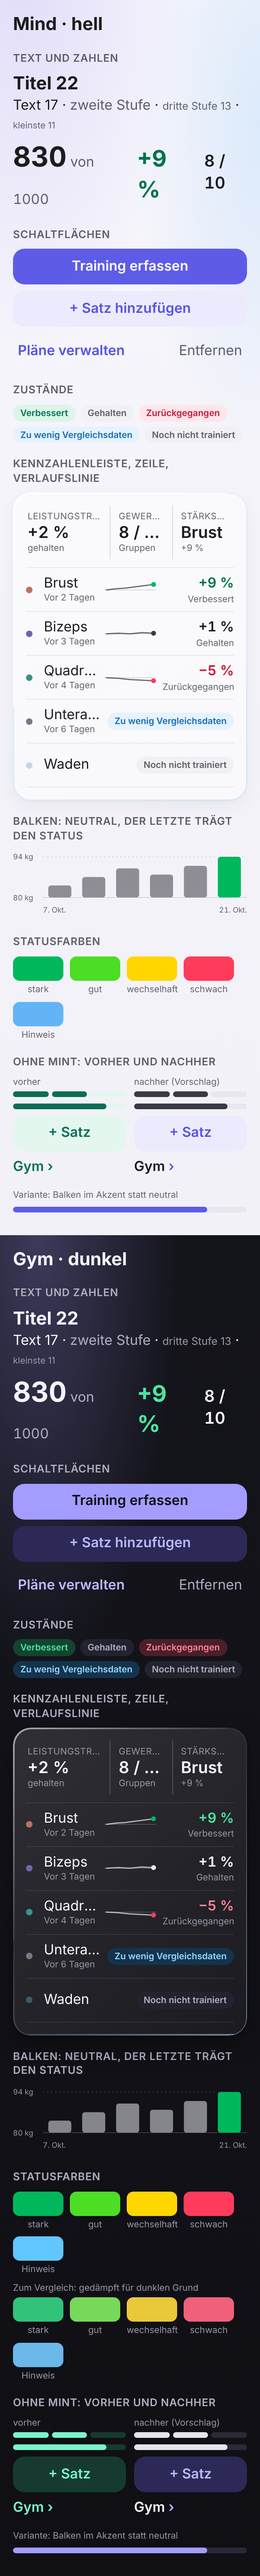
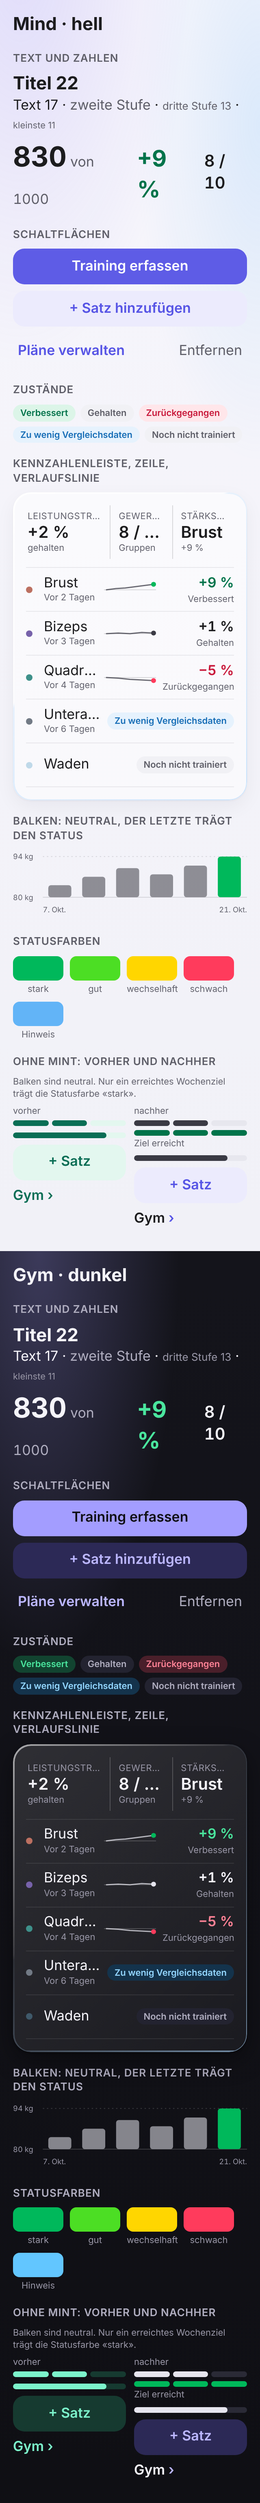
Block 0: the contract is approved at STOP 0 (D160, D161)
The owner accepted docs/wp3/vertrag.md on 2026-11-11 with all six
recommendations and the rest of its proposals, and added one rule: a weekly
target that has been met carries the status colour `strong`; every other
value bar is neutral. On light that is the status's ink, since the fill
reaches only 2.1:1 on the track.

docs/decisions.md — D160 (the contract approved; areas carry no colour of
their own; the status fills unchanged in both worlds) and D161 (white is
held and the dimmed tone is untrained and the inert zone; the body stage at
55 % without a card; the Gym tile on Heute leads to the body; the sheet at
two thirds; no Mac, so the app measures itself). A status note on D14.

docs/wp3/vertrag.md — every rule now decided, none proposed. The component
sheet shows the met weekly bar and drops the two alternatives that were
not chosen. HANDOVER.md names the approval and what the owner still owes.

No production code. npm run test exits 0 (106 files, 1761 tests).

Claude-Session: https://claude.ai/code/session_01DdLuA9TSaUni1Us2ZiTbE9

Changed region(s): [[0.0, 0.0, 1.0, 0.9971], [0.9375, 0.779, 0.9688, 0.8101]]

diff --git a/docs/wp3/mockups/bausteine.html b/docs/wp3/mockups/bausteine.html
@@ -50,9 +50,9 @@
   <div class="swatches">
     <div class="sw"><b style="background:#00b85b"></b>stark</div><div class="sw"><b style="background:#4cde24"></b>gut</div><div class="sw"><b style="background:#ffd600"></b>wechselhaft</div><div class="sw"><b style="background:#ff3b5c"></b>schwach</div><div class="sw"><b style="background:var(--info-fill)"></b>Hinweis</div>
   </div>
-  <div data-gedaempft></div>
 
   <h3>Ohne Mint: vorher und nachher</h3>
+  <p class="caption" style="margin:0 0 6px">Balken sind neutral. Nur ein erreichtes Wochenziel trägt die Statusfarbe «stark».</p>
   <div class="pair">
     <div><small>vorher</small>
       <div class="week"><b style="background:var(--alt-mint-ink)"></b><b style="background:var(--alt-mint-ink)"></b><b style="background:var(--alt-mint-tint)"></b></div>
@@ -60,15 +60,15 @@
       <div class="btn" style="margin-top:8px;background:var(--alt-mint-tint);color:var(--alt-mint-ink)">+ Satz</div>
       <div style="margin-top:8px;color:var(--alt-mint-ink);font-weight:600">Gym ›</div>
     </div>
-    <div><small>nachher (Vorschlag)</small>
+    <div><small>nachher</small>
       <div class="week"><b class="on"></b><b class="on"></b><b></b></div>
+      <div class="week" style="margin-top:5px"><b class="met"></b><b class="met"></b><b class="met"></b></div>
+      <div class="caption t-improved" style="margin-top:2px">Ziel erreicht</div>
       <div class="meter" style="margin-top:8px"><b style="width:83%"></b></div>
       <div class="btn second" style="margin-top:8px">+ Satz</div>
       <div style="margin-top:8px;font-weight:600">Gym <span style="color:var(--accent-ink)">›</span></div>
     </div>
   </div>
-  <div style="margin-top:10px"><small class="caption">Variante: Balken im Akzent statt neutral</small>
-    <div class="meter" style="margin-top:4px"><b style="width:83%;background:var(--accent)"></b></div></div>
 </template>
 <section class="sheetpage" id="mind"><h2>Mind · hell</h2></section>
 <section class="sheetpage" id="gym" data-world="gym" style="color:var(--text-primary)"><h2>Gym · dunkel</h2></section>
@@ -84,9 +84,6 @@
     const werte = [80.5, 84.6, 88.8, 85.8, 90, 94.4];
     s.querySelector('[data-balken]').innerHTML = werte.map((v, i) => { const h = (v - 76) / (94.4 - 76) * 56 + 4; return `<rect ${i === 5 ? 'fill="var(--status-strong)"' : 'class="bar"'} x="${52 + i * 50}" y="${70 - h}" width="34" height="${h}" rx="4"/>`; }).join('');
   }
-  // Nur in der dunklen Welt: die gedämpfte Fassung der Statusfarben zum Vergleich (Frage 2 im Vertrag).
-  document.querySelector('#gym [data-gedaempft]').innerHTML = `<small class="caption" style="display:block;margin:8px 0 4px">Zum Vergleich: gedämpft für dunklen Grund</small><div class="swatches">
-    <div class="sw"><b style="background:#33c27a"></b>stark</div><div class="sw"><b style="background:#77d95a"></b>gut</div><div class="sw"><b style="background:#e8c93a"></b>wechselhaft</div><div class="sw"><b style="background:#f0607a"></b>schwach</div><div class="sw"><b style="background:#6bb8ea"></b>Hinweis</div></div>`;
 </script>
 </body>
 </html>

diff --git a/docs/wp3/mockups/mockup.css b/docs/wp3/mockups/mockup.css
@@ -15,6 +15,7 @@
   --info-fill: #62b4f7; --info-ink: #166db6; --info-tint: #e6f2fd;
   --untrained: #c9c9d2;
   --alt-mint-ink: #0a6e55; --alt-mint-tint: #e3f7ef;
+  --met-fill: var(--status-strong-ink);
   --glass-fill: rgba(255, 255, 255, 0.5); --glass-solid: #ffffff;
   --glass-edge: linear-gradient(135deg, rgba(255,255,255,.95), rgba(255,255,255,.4) 39%, rgba(173,216,255,.25) 40%, rgba(173,216,255,.7));
   --ground:
@@ -39,6 +40,7 @@
   --info-fill: #62c6ff; --info-ink: #93d6ff; --info-tint: #14334c;
   --untrained: #7d7d8a;
   --alt-mint-ink: #7cf3cb; --alt-mint-tint: #163a30;
+  --met-fill: var(--status-strong);
   --glass-fill: linear-gradient(135deg, rgba(255,255,255,.12), rgba(255,255,255,.04)); --glass-solid: #1a1a22;
   --glass-edge: linear-gradient(135deg, rgba(255,255,255,.6), rgba(255,255,255,.1) 39%, rgba(173,216,255,.05) 40%, rgba(173,216,255,.6));
   --ground: radial-gradient(90% 55% at 15% 0%, rgba(163, 157, 255, 0.28), transparent 60%), linear-gradient(180deg, #14141b 0%, #0f0f14 100%);
@@ -150,7 +152,7 @@ svg .bar { fill: var(--data-ink); fill-opacity: .55; }
 .meter { height: 7px; border-radius: 4px; background: var(--data-track); overflow: hidden; }
 .meter b { display: block; height: 100%; border-radius: 4px; background: var(--data-ink); }
 .week { display: grid; grid-auto-flow: column; grid-auto-columns: 1fr; gap: 4px; }
-.week b { height: 7px; border-radius: 4px; background: var(--data-track); } .week b.on { background: var(--data-ink); }
+.week b { height: 7px; border-radius: 4px; background: var(--data-track); } .week b.on { background: var(--data-ink); } .week b.met { background: var(--met-fill); }
 
 /* iPhone SE: keine Aussparung oben, kein Balken unten. */
 @media (max-width: 340px) { :root { --safe-top: 20px; --safe-bottom: 0px; } .row { grid-template-columns: 14px minmax(0, 1fr) 64px 88px; } .row .name { white-space: normal; } }

diff --git a/docs/wp3/vertrag.md b/docs/wp3/vertrag.md
@@ -1,13 +1,10 @@
 # Momentum – Vertrag über Aussehen, Zustände und Wörter
 
-Stand: Entwurf zur Abnahme am STOP 0 (11.11.2026).
+Stand: freigegeben am 11.11.2026 (STOP 0).
 
-Dieser Vertrag legt fest, wie Momentum aussieht und spricht. Die folgenden Blöcke bauen danach, und Tests setzen ihn durch. Jede Regel trägt eine Marke:
+Dieser Vertrag legt fest, wie Momentum aussieht und spricht. Die folgenden Blöcke bauen danach, und Tests setzen ihn durch.
 
-- **festgelegt** heisst: Dario hat entschieden; die Nummer verweist auf `docs/decisions.md`.
-- **Vorschlag** heisst: Die Regel wird am STOP 0 bestätigt oder geändert.
-
-Eine Regel ohne Marke ist ein Vorschlag.
+Alle Regeln sind **festgelegt**: Dario hat sie entschieden oder am STOP 0 angenommen. Die Nummern verweisen auf `docs/decisions.md`; wo keine steht, gilt D160.
 
 Belege sind die drei Mockups unter `docs/wp3/mockups/` (Screenshots in `bilder/`, je 393 und 320 px breit).
 
@@ -27,7 +24,9 @@ Farbe hat genau drei Aufgaben (festgelegt, D154):
 2. **Die Statusskala heisst Datenlage.** Grün und Rot bewerten eine Veränderung, Blau weist auf fehlende Vergleichsdaten hin.
 3. **Alles andere ist neutral.** Text, Flächen, Linien, Balken.
 
-Daraus folgt für Balken und Linien, die einen Wert zeigen (Rating, Wochenziel, Verlauf): Sie sind neutral und benutzen zwei neue Tokens, `--data-ink` für die Füllung und `--data-track` für die Spur (Vorschlag). Das Bausteinblatt zeigt daneben die Alternative, Balken im Akzent zu füllen.
+Daraus folgt für Balken und Linien, die einen Wert zeigen (Rating, Wochenziel, Verlauf): Sie sind neutral und benutzen zwei neue Tokens, `--data-ink` für die Füllung und `--data-track` für die Spur (festgelegt, D160).
+
+Eine Ausnahme hat Dario am STOP 0 ergänzt: Hat ein Wochenziel sein Ziel erreicht, trägt sein Balken die Statusfarbe «stark»; sonst ist er neutral (festgelegt, D160). In Gym ist das die Füllfarbe `--status-strong` (5,4:1 gegen die Spur). Auf Hell ist es ihre dunklere Fassung `--status-strong-ink` (4,8:1), weil die Füllfarbe gegen die helle Spur nur 2,1:1 erreicht und ein Balken 3:1 braucht. Daneben steht wie heute «Ziel erreicht» als Wort.
 
 ### 2.2 Die beiden Welten
 
@@ -46,7 +45,7 @@ Mind ist `:root`, Gym ist `[data-world="gym"]`. Die Werte sind die von Variante 
 | `--separator-strong` | `rgba(60, 60, 67, 0.18)` | `rgba(255, 255, 255, 0.2)` |  |
 | `--text-primary` | `#1c1c1e` | `#f5f4fa` |  |
 | `--text-secondary` | `#5e5e68` | `#b0aec0` |  |
-| `--text-tertiary` | `#64646f` | `#9896a6` | Vorschlag, §3 |
+| `--text-tertiary` | `#64646f` | `#9896a6` | D149, D160 |
 | `--text-on-accent` | `#ffffff` | `#0f0f14` |  |
 | `--accent` | `#5e5ce6` | `#a39dff` |  |
 | `--accent-pressed` | `#4a48cf` | `#9089ff` |  |
@@ -59,7 +58,7 @@ Mind ist `:root`, Gym ist `[data-world="gym"]`. Die Werte sind die von Variante 
 | `--status-mixed` | `#ffd600` | wie hell |  |
 | `--status-good` | `#4cde24` | wie hell |  |
 | `--status-strong` | `#00b85b` | wie hell |  |
-| `--status-empty` | `#e6e6ec` | `#2e2e3a` | Vorschlag: Graphit statt Marineblau |
+| `--status-empty` | `#e6e6ec` | `#2e2e3a` | D160: Graphit statt Marineblau |
 | `--status-weak-ink` | `#c8183a` | `#ff8296` |  |
 | `--status-weak-on` | `var(--text-primary)` | `#1a0a10` |  |
 | `--status-weak-tint` | `#ffe6ea` | `#4a1f2a` |  |
@@ -74,7 +73,7 @@ Mind ist `:root`, Gym ist `[data-world="gym"]`. Die Werte sind die von Variante 
 | `--status-strong-tint` | `#dcf5e8` | `#124430` |  |
 | `--status-empty-ink` | `var(--text-secondary)` | wie hell |  |
 | `--status-empty-tint` | `var(--surface-secondary)` | wie hell |  |
-| `--status-track` | `#f1f1f5` | `#2a2a36` | Vorschlag: Graphit statt Marineblau |
+| `--status-track` | `#f1f1f5` | `#2a2a36` | D160: Graphit statt Marineblau |
 | `--glass-fill-strong` | `rgba(255, 255, 255, 0.78)` | `rgba(26, 26, 34, 0.86)` |  |
 | `--glass-solid` | `#ffffff` | `#1a1a22` |  |
 | `--glass-border` | `rgba(255, 255, 255, 0.95)` | `rgba(255, 255, 255, 0.14)` |  |
@@ -85,26 +84,26 @@ Mind ist `:root`, Gym ist `[data-world="gym"]`. Die Werte sind die von Variante 
 | `--toast-surface` | `#1c1c1e` | `#f3f4f8` |  |
 | `--toast-text` | `#ffffff` | `#0b0e17` |  |
 | `--toast-action` | `#b4b3ff` | `#4f47c8` |  |
-| `--data-ink` (neu) | `#3a3a44` | `#e6e5ee` | Vorschlag, §2.1 |
-| `--data-track` (neu) | `#e7e7ee` | `#2a2a36` | Vorschlag, §2.1 |
+| `--data-ink` (neu) | `#3a3a44` | `#e6e5ee` | D160, §2.1 |
+| `--data-track` (neu) | `#e7e7ee` | `#2a2a36` | D160, §2.1 |
 
 Nicht in der Tabelle, aber unverändert aus Variante B: die Schatten, der Verlauf der Glasfüllung in Gym (Weiss 12 % nach 4 %) und die Verlaufskante der Karte (1,5 px).
 
-**Der Grund** (Vorschlag). Variante B malt in Gym drei Farbschleier: Violett oben links, Cyan rechts, Mint unten. Künftig bleibt nur der violette; Mint fällt mit D154 weg, und Cyan wäre sonst eine dritte Farbe ohne Aufgabe. In Mind bleiben der violette und der blaue Schleier, der mintfarbene und der pfirsichfarbene fallen weg.
+**Der Grund** (festgelegt, D160). Variante B malt in Gym drei Farbschleier: Violett oben links, Cyan rechts, Mint unten. Künftig bleibt nur der violette; Mint fällt mit D154 weg, und Cyan wäre sonst eine dritte Farbe ohne Aufgabe. In Mind bleiben der violette und der blaue Schleier, der mintfarbene und der pfirsichfarbene fallen weg.
 
-**Reste aus Variante A.** Von den 85 Tokens des Gym-Blocks überschreibt B nur 34. Zwei der übrigen sind sichtbar marineblau statt graphit: `--status-empty` und `--status-track`. Die Tabelle schlägt Graphitwerte vor.
+**Reste aus Variante A.** Von den 85 Tokens des Gym-Blocks überschreibt B nur 34. Zwei der übrigen sind sichtbar marineblau statt graphit: `--status-empty` und `--status-track`. Die Tabelle setzt Graphitwerte.
 
 ### 2.3 Statusskala
 
-Die vier Füllfarben bleiben in beiden Welten gleich, wie D123 und `CLAUDE.md` es festhalten (Vorschlag: nicht ändern). Der Review hielt sie auf Graphit für zu grell. Gemessen stimmt das für Flächen, nicht für das, was in Gym tatsächlich damit gefüllt wird: Punkte, Endpunkte und der beleuchtete Körper. Als kleine Marke auf der Gym-Karte messen Grün 6,6:1 und Rot 5,0:1. Text und Chips benutzen schon heute eigene Werte je Welt (`-ink`, `-tint`). Das Bausteinblatt zeigt eine gedämpfte Fassung zum Vergleich. Wer sie will, ändert D123, die Regel «the same four fills in both worlds» in `CLAUDE.md`, eine Prüfung in `contrast.test.ts` und `statusPalette.ts`.
+Die vier Füllfarben bleiben in beiden Welten gleich, wie D123 und `CLAUDE.md` es festhalten (festgelegt, D160). Der Review hielt sie auf Graphit für zu grell. Gemessen stimmt das für Flächen, nicht für das, was in Gym tatsächlich damit gefüllt wird: Punkte, Endpunkte und der beleuchtete Körper. Als kleine Marke auf der Gym-Karte messen Grün 6,6:1 und Rot 5,0:1. Text und Chips benutzen schon heute eigene Werte je Welt (`-ink`, `-tint`). Eine gedämpfte Fassung stand am STOP 0 zur Wahl und wurde nicht gewählt.
 
 Die Hinweisfarbe ist die Familie `--sky-*`. Sie behält ihren Namen.
 
 ### 2.4 Der Muskelpunkt
 
-Die zehn Muskelfarben erscheinen nur noch als Punkt von 8 px vor dem Namen in der Zeile und im Kopf des Sheets (festgelegt, D154). Sie färben keine Linie, keinen Ring und keine Fläche. Der Punkt ist um 35 % zu seinem eigenen Grau gezogen (Vorschlag; heute 13 %), weil Terrakotta neben einer grünen Zahl und Petrol neben einer roten sonst wie ein Status lesen. Bei einer Gruppe ohne Training hat er 40 % Deckkraft.
+Die zehn Muskelfarben erscheinen nur noch als Punkt von 8 px vor dem Namen in der Zeile und im Kopf des Sheets (festgelegt, D154). Sie färben keine Linie, keinen Ring und keine Fläche. Der Punkt ist um 35 % zu seinem eigenen Grau gezogen (festgelegt, D160; heute 13 %), weil Terrakotta neben einer grünen Zahl und Petrol neben einer roten sonst wie ein Status lesen. Bei einer Gruppe ohne Training hat er 40 % Deckkraft.
 
-Die zehn Werte ziehen aus `src/features/body/tokens.ts` nach `tokens.css` um (`--muscle-*`) und werden von dort gelesen, so wie die Statusfarben (Vorschlag).
+Die zehn Werte ziehen aus `src/features/body/tokens.ts` nach `tokens.css` um (`--muscle-*`) und werden von dort gelesen, so wie die Statusfarben (festgelegt, D160).
 
 ### 2.5 Was Mint ersetzt
 
@@ -113,7 +112,7 @@ Mint verlässt Gym (festgelegt, D154). Im Code steht Mint an 41 Stellen in 17 Da
 | Stelle | Heute | Künftig |
 |---|---|---|
 | Rating-Balken `.metric-bar--gym` (`metrics.css:207`) | Mint | `--data-ink` auf `--data-track` |
-| Wochenbalken auf Heute `.week__segment` (`today.css:258`, `:264`) | Mint | `--data-ink` auf `--data-track` |
+| Wochenbalken auf Heute `.week__segment` (`today.css:258`, `:264`) | Mint | `--data-ink` auf `--data-track`; ist das Ziel erreicht, die Statusfarbe «stark» (§2.1) |
 | Fortschritt des laufenden Workouts (`runningWorkout.css:53`, `:61`) | Mint | `--data-ink` auf `--data-track` |
 | Balken im Übungsdetail `.gym-detail__bar` (`gym.css:465`) | Mint | neutral, der letzte trägt den Status (§6) |
 | «Satz hinzufügen» `.gym-exercise__add` (`gym.css:307`) | Mint-Fläche | zweite Stufe der Schaltflächen (§5) |
@@ -129,7 +128,7 @@ Mint verlässt Gym (festgelegt, D154). Im Code steht Mint an 41 Stellen in 17 Da
 | «alles beantwortet», «Ziel erreicht», «steigend», «gesichert», Aufstiegsmarke (`today.css:95`, `:274`, `progress.css:59`, `backup.css:15`, `rank.css:302`) | Mint als «gut» | `--status-strong-ink` auf `--status-strong-tint` |
 | Gewähltes «Ja» (`answerControls.css:29`) | Mint-Fläche | `--status-strong` mit `--status-strong-on`, wie eine 9 oder 10 auf der Skala |
 
-**Erweiterung** (Vorschlag). Ersetzt man nur Mint, bleibt die Frage, was Gym auf den hellen, geteilten Screens trägt. Violett geht nicht, weil Mind dort Lila hat und beide kaum zu unterscheiden wären. Der Vorschlag ist deshalb, dass Bereiche gar keine eigene Farbe mehr haben: Der Bereich steht als Wort da, die Füllung ist neutral.
+**Erweiterung** (festgelegt, D160). Ersetzt man nur Mint, bleibt die Frage, was Gym auf den hellen, geteilten Screens trägt. Violett geht nicht, weil Mind dort Lila hat und beide kaum zu unterscheiden wären. Deshalb haben Bereiche gar keine eigene Farbe mehr: Der Bereich steht als Wort da, die Füllung ist neutral.
 
 | Familie | Heute | Künftig |
 |---|---|---|
@@ -152,8 +151,8 @@ Karten und Sheets sind Glas, wie in Variante B gebaut: eine durchscheinende Fül
 ## §3 Schrift und Zahlen
 
 - **Schriftskala** (festgelegt, wie gebaut): 34, 22, 17, 15, 13, 11 px. Die Systemschrift bleibt.
-- **Kein Text unter 11 px** (Vorschlag). Heute haben die Tab-Leiste und eine Stelle im Muskelmodul 10 px.
-- **Zahlstufen** (Vorschlag): `--type-figure-xl` 34 px für die eine Hauptzahl eines Screens, `--type-figure-l` 28 px für die Zahl im Kopf eines Sheets, `--type-figure-m` 20 px in der Kennzahlenleiste. In Zeilen steht die Zahl in 17 px halbfett.
+- **Kein Text unter 11 px** (festgelegt, D160). Heute haben die Tab-Leiste und eine Stelle im Muskelmodul 10 px.
+- **Zahlstufen** (festgelegt, D160): `--type-figure-xl` 34 px für die eine Hauptzahl eines Screens, `--type-figure-l` 28 px für die Zahl im Kopf eines Sheets, `--type-figure-m` 20 px in der Kennzahlenleiste. In Zeilen steht die Zahl in 17 px halbfett.
 - **Feste Ziffernbreiten** überall, wo Zahlen unter- oder nebeneinander stehen (`font-variant-numeric: tabular-nums`).
 - **Einheit und Zusatz** («von 1000», «kg») stehen kleiner und in der zweiten Textstufe.
 - **Eine Veränderung trägt immer ihr Vorzeichen** und steht nie ohne ihren Zeitraum («+9 %», darunter «letzte 30 Tage»).
@@ -168,7 +167,7 @@ Auf Hell liegen die zweite und die dritte Textstufe damit fast gleich (`#5e5e68`
 
 ## §4 Abstand, Dichte, Flächen
 
-- **Ein Seitenrand** von 16 px auf jedem Screen (Vorschlag). Heute weicht der Session-Screen ab.
+- **Ein Seitenrand** von 16 px auf jedem Screen (festgelegt, D160). Heute weicht der Session-Screen ab.
 - **Karte:** Innenabstand 16 px (heute 18), Radius 22 px, eine Karte pro Thema. Keine Karte in einer Karte.
 - **Zeile:** mindestens 54 px hoch (heute rund 61), bei zweizeiligem Namen mehr. Die Trefferfläche bleibt 44 px.
 - **Kennzahlenleiste:** drei Zellen, getrennt durch eine feine Linie. Jede Zelle hat eine Beschriftung in 11 px, einen Wert in `--type-figure-m` und eine Zeile darunter für Zeitraum oder Zusatz. Die erste Zelle ist breiter (1,35 : 1 : 1), damit «Leistungstrend» bei 320 px passt.
@@ -176,7 +175,7 @@ Auf Hell liegen die zweite und die dritte Textstufe damit fast gleich (`#5e5e68`
 
 ## §5 Bedienelemente
 
-Eine Rangfolge, auf jedem Screen dieselbe (Vorschlag):
+Eine Rangfolge, auf jedem Screen dieselbe (festgelegt, D160):
 
 | Stufe | Aussehen | Beispiel |
 |---|---|---|
@@ -193,10 +192,10 @@ Eine Rangfolge, auf jedem Screen dieselbe (Vorschlag):
 
 ## §6 Diagramme
 
-- **Linie:** 1,5 px in `--data-ink`, runde Enden. Kein Flächenverlauf unter der Linie (Vorschlag; betrifft die Trendkurve im Verlauf).
+- **Linie:** 1,5 px in `--data-ink`, runde Enden. Kein Flächenverlauf unter der Linie (festgelegt, D160; betrifft die Trendkurve im Verlauf).
 - **Endpunkt:** ein Punkt mit 3 px Radius in der Statusfarbe des Zustands; bei «Gehalten» in `--data-ink`.
 - **Nulllinie:** immer sichtbar, fein.
-- **Verlaufslinie in der Zeile** (80 × 24 px, bei 320 px Breite 64 × 24): Alle Zeilen einer Liste teilen eine Skala von −12 % bis +12 %, die Nulllinie liegt in der Mitte (Vorschlag). Heute skaliert jede Zeile für sich, sodass +1 % so steil aussieht wie +60 %. Was über 12 % hinausgeht, bleibt am Rand stehen; die Zahl daneben nennt den Wert.
+- **Verlaufslinie in der Zeile** (80 × 24 px, bei 320 px Breite 64 × 24): Alle Zeilen einer Liste teilen eine Skala von −12 % bis +12 %, die Nulllinie liegt in der Mitte (festgelegt, D160). Heute skaliert jede Zeile für sich, sodass +1 % so steil aussieht wie +60 %. Was über 12 % hinausgeht, bleibt am Rand stehen; die Zahl daneben nennt den Wert.
 - **Diagramm im Sheet:** links zwei Beschriftungen («0 %» und «+12 %» oder «−12 %»), unten das erste und das letzte Datum, am Endpunkt der Wert.
 - **Balken:** `--data-ink` mit 55 % Deckkraft, der letzte Balken in der Statusfarbe seiner Veränderung, links der kleinste und der grösste Wert, unten erstes und letztes Datum.
 - **Ohne Messwert kein Diagramm.** Ein einzelner Messwert ist ein Punkt, keiner ist nichts. Das bleibt, wie es gebaut ist.
@@ -219,7 +218,7 @@ Fünf Zustände (festgelegt, D153). Eine einzige Stelle im Code macht aus einer 
 - **Zeiträume:** 30 und 90 Tage für den Muskeltrend. Der Verlauf behält 7 und 30 Tage; die beiden teilen sich heute die Konstante `TREND_RANGES` und brauchen künftig je eine.
 - **Wörter:** «Leistungstrend», nie «Entwicklung» und nie «gewachsen». «Zu wenig Vergleichsdaten» ersetzt «Noch kein Vergleich».
 - **Legendensatz** (hinter dem Knopf ⓘ): «Die Farbe zeigt, wie sich dein bester Arbeitssatz je Muskelgruppe im gewählten Zeitraum verändert hat. Sie misst Trainingsleistung, nicht Muskelmasse.»
-- **Uneinheitlich:** Liegen die Übungen einer Gruppe mehr als zehn Prozentpunkte auseinander, steht im Sheet «uneinheitlich», und beide Übungen sind einzeln sichtbar (Vorschlag).
+- **Uneinheitlich:** Liegen die Übungen einer Gruppe mehr als zehn Prozentpunkte auseinander, steht im Sheet «uneinheitlich», und beide Übungen sind einzeln sichtbar (festgelegt, D160).
 - **Kennzahl darüber:** Der Leistungstrend aller gewerteten Gruppen trägt denselben Zustand nach derselben Regel.
 
 Diese Regeln baut der Block «Farbregeln», nicht 6b. Er muss wissen: Die Gym-Golden-Datei enthält den Anzeigezustand und wird dabei bewusst neu eingefroren; die Rundung in `muscleState.ts` rundet heute −2,5 auf −2.
@@ -228,12 +227,13 @@ Diese Regeln baut der Block «Farbregeln», nicht 6b. Er muss wissen: Die Gym-Go
 
 Zielbild für die Blöcke 7A und 7B.
 
-- **Grösse und Rahmen** (Vorschlag): Der Körper nimmt mindestens 55 % der Bildschirmhöhe ein und steht ohne Kartenrahmen auf dem Grund. Darüber liegen nur die Kopfzeile in 17 px, die Zeitraumwahl und die Kennzahlenleiste. Unter den Füssen liegen ein kleiner Kontaktschatten und ein schwacher Schein.
-- **Material** (festgelegt, D155): einfarbig, ohne Anatomiefarben. Ein trainierter Muskel ohne Veränderung ist weiss. Was nichts aussagt, ist gedimmt: ein Muskel ohne Training, und Kopf, Hände und Füsse (Vorschlag für die neutrale Zone). So ist ein Körper ohne Daten eine ruhige graue Figur, und Training macht ihn hell.
+- **Grösse und Rahmen** (festgelegt, D161): Der Körper nimmt mindestens 55 % der Bildschirmhöhe ein und steht ohne Kartenrahmen auf dem Grund. Darüber liegen nur die Kopfzeile in 17 px, die Zeitraumwahl und die Kennzahlenleiste. Unter den Füssen liegen ein kleiner Kontaktschatten und ein schwacher Schein.
+- **Material** (festgelegt, D155): einfarbig, ohne Anatomiefarben. Ein trainierter Muskel ohne Veränderung ist weiss. Was nichts aussagt, ist gedimmt: ein Muskel ohne Training, und Kopf, Hände und Füsse (festgelegt, D161). So ist ein Körper ohne Daten eine ruhige graue Figur, und Training macht ihn hell.
 - **Farbe am Körper** muss der Legende entsprechen. Das heutige Tone Mapping macht aus den Statusfarben Pastell; Block 7A wählt eines, das sie hält, und zeigt es an fünf Bildern.
 - **Licht:** weniger Grundlicht, ein Hauptlicht von schräg oben, ein Kantenlicht von hinten.
 - **Bedienung:** Ansichtstasten Vorne, Seite, Hinten und Zurücksetzen stehen oben in der Bühne, als feste Flächen. Zoomen mit zwei Fingern zwischen 1,0 und 1,8; Doppeltipp setzt zurück.
 - **Bewegung** (festgelegt, D155): Drehen mit Schwung und weichem Auslaufen. Ein Tipp dreht den Körper nie; eine Auswahl in der Liste dreht ihn, wenn die Gruppe abgewandt ist.
+- **Der Weg dorthin** (festgelegt, D161): Die Gym-Kachel auf Heute führt direkt zum Muskelgruppen-Screen. Die Gym-Übersicht bleibt der Ort für Training, Pläne und Laufen.
 - **Treffen:** Hände gehören zur neutralen Zone (festgelegt, D155). Ein Tipp bis 12 px neben einer Gruppe wählt die nächstliegende; das gleicht die schmalen Unterarme aus.
 - **Ohne 3D** bleibt die flache Figur der Ersatz, und die Zeilen sind der Weg für Vorlesehilfen.
 
@@ -241,7 +241,7 @@ Zielbild für die Blöcke 7A und 7B.
 
 Zielbild für Block 7C.
 
-- **Höhe** (Vorschlag): zwei Stufen. Das Sheet öffnet auf zwei Dritteln der Höhe und lässt sich auf 92 % ziehen. Dario nannte rund 80 %; bei 80 % bleiben über dem Sheet auf einem iPhone rund 80 px vom Körper, bei zwei Dritteln rund 190 px. Das reicht, um die gewählte Gruppe vergrössert stehen zu lassen (Mockup 2).
+- **Höhe** (festgelegt, D161): zwei Stufen. Das Sheet öffnet auf zwei Dritteln der Höhe und lässt sich auf 92 % ziehen. Zuerst waren rund 80 % genannt; bei 80 % blieben über dem Sheet auf einem iPhone rund 80 px vom Körper, bei zwei Dritteln rund 190 px. Das reicht, um die gewählte Gruppe vergrössert stehen zu lassen (Mockup 2).
 - **Der Körper darüber** dreht beim Öffnen zur gewählten Gruppe, rückt sie ins Fenster und bleibt dann stehen. Solange das Sheet offen ist, wird er nicht neu gezeichnet (festgelegt, D155).
 - **Reihenfolge des Inhalts:** Name mit Muskelpunkt; die Veränderung in `--type-figure-l` mit Chip; darunter «Bester Arbeitssatz · letzte 30 Tage»; die Zeitraumwahl; das Diagramm; die Übungen der Gruppe mit ihrem besten Arbeitssatz und ihrer Veränderung; das Arbeitsvolumen pro Woche als Balken mit dem Vermerk «nicht gewertet» (festgelegt, D152).
 - **Über der Falz** stehen Name, Veränderung, Zeitraum und Diagramm. Übungen und Volumen dürfen darunter beginnen.
@@ -250,13 +250,13 @@ Zielbild für Block 7C.
 
 ## §10 Bewegung
 
-- **Tokens:** `--duration-fast` 130 ms, `--duration-base` 240 ms, neu `--duration-sheet` 320 ms; eine Kurve, `--ease-standard` (Vorschlag für das neue Token).
+- **Tokens:** `--duration-fast` 130 ms, `--duration-base` 240 ms, neu `--duration-sheet` 320 ms; eine Kurve, `--ease-standard` (festgelegt, D160).
 - **Nach Zeit, nicht nach Bildern.** Trägheit und Kamerafahrt des Körpers rechnen mit der vergangenen Zeit. Heute rechnen sie pro Bild und laufen bei halber Bildrate doppelt so lang.
 - **Reduzierte Bewegung:** kein Auslaufen, Ansichten springen, Sheets erscheinen ohne Fahrt. Das gilt schon und bleibt.
 
 ## §11 Laden, leer, Fehler
 
-- **Laden:** Ein Screen hält sein Layout. Wo Inhalt fehlt, steht eine ruhige Fläche in `--surface-secondary`, ohne Schimmer (Vorschlag). Der Körper zeigt bis zum Laden sein Standbild.
+- **Laden:** Ein Screen hält sein Layout. Wo Inhalt fehlt, steht eine ruhige Fläche in `--surface-secondary`, ohne Schimmer (festgelegt, D160). Der Körper zeigt bis zum Laden sein Standbild.
 - **Leer:** ein Satz, was fehlt, und eine primäre Aktion. Eine Leiste voller Striche wird nicht gezeigt (Mockup 1, zweiter Zustand).
 - **Fehler:** die vorhandenen Bausteine für «konnte nicht laden» und «veraltet».
 
@@ -306,12 +306,14 @@ Zielbild für Block 7C.
 | Farbregeln | §7, die Wörter aus §13, die sie braucht |
 | 5b Kennzahl | «Bester Arbeitssatz» und «Aufwärmsatz» aus §13; sonst kein Aussehen |
 | 7A Körpermodell | §8 Material, Farbe, Licht, neutrale Zone |
-| 7B Interaktion | §8 Grösse, Bedienung, Bewegung, Treffen; §10 für den Körper |
+| 7B Interaktion | §8 Grösse, Bedienung, Bewegung, Treffen, der Weg von Heute; §10 für den Körper; die Messanzeige für Bildrate und Ladezeit |
 | 7C Muskel-Sheet | §9, §6 für das Diagramm im Sheet |
 | 9 Härtung | §12 auf dem Gerät, §14 als Ganzes |
 
 ## Anhang
 
-**Mockups** (`docs/wp3/mockups/`): `muskelgruppen.html` (gemischte Datenlage; mit `#leer` das erste Öffnen), `muskel-sheet.html` (Brust mit Messwerten; mit `#wenig` die Unterarme), `bausteine.html` (beide Welten). Der Körper darin ist das heutige Modell mit dem heutigen Licht, gefärbt nach §7 und §8; Block 7A ersetzt Modell und Licht. Die Hände sind dort noch blau wie die Unterarme, weil sie im heutigen Modell dazugehören.
+**Mockups** (`docs/wp3/mockups/`): `muskelgruppen.html` (gemischte Datenlage; mit `#leer` das erste Öffnen), `muskel-sheet.html` (Brust mit Messwerten; mit `#wenig` die Unterarme), `bausteine.html` (beide Welten). Der Körper darin ist das heutige Modell mit dem heutigen Licht, gefärbt nach §7 und §8; Block 7A ersetzt Modell und Licht. Die Mockups zeigen den Stand der Abnahme; das Bausteinblatt zeigt auch den Wochenbalken bei erreichtem Ziel. Die Hände sind dort noch blau wie die Unterarme, weil sie im heutigen Modell dazugehören.
 
-**Offen von Dario:** die üblichen Wiederholungsbereiche, ob Aufwärmsätze bisher erfasst wurden, ob Pyramiden, Drop-Sets oder Deload-Wochen vorkommen; iPhone-Modell und iOS-Version. Zum Mac lese ich die Angabe als «nein»; dann misst die App Bildrate und Ladezeit selbst und zeigt sie an (Block 7B).
+**Offen von Dario:** die üblichen Wiederholungsbereiche, ob Aufwärmsätze bisher erfasst wurden, ob Pyramiden, Drop-Sets oder Deload-Wochen vorkommen; iPhone-Modell und iOS-Version. Die Trainingsangaben braucht Block 5b, das Gerät braucht Block 7B.
+
+**Kein Mac.** Dario hat keinen; die App misst Bildrate und Ladezeit deshalb selbst und zeigt sie an (Block 7B).

diff --git a/docs/decisions.md b/docs/decisions.md
@@ -121,6 +121,10 @@ in D15 and D16.
 
 ## D14 — Two weights per pastel, and they are not interchangeable
 
+> **Status note (D160).** The pastel families lilac, mint, peach, rose and
+> sand leave the tokens with WP3 Stage 6b, and areas no longer carry a
+> colour of their own. Sky stays, as the information colour.
+
 Each identity colour has a decorative `-fill`, a `-mid` for controls, and a
 text-safe `-ink`, plus a `-tint` for backgrounds. On a light ground a pastel
 that looks right as a switch cannot carry 17px text at 4.5:1, and the
@@ -3599,3 +3603,49 @@ The remaining work runs as blocks — the contract, 6b, the colour rules, 5b,
 7A, 7B, 7C, 9 — each in a fresh cloud session started from its prompt under
 `docs/wp3/prompts/`, each ending at a STOP. One model does all of it
 (Fable 5.2); subagents only for pure search runs, on Sonnet.
+
+## D160 — The visual contract is approved; areas carry no colour, and a met weekly target is the one coloured bar
+
+**Decision (owner, STOP 0, 2026-11-11).** `docs/wp3/vertrag.md` is approved
+as written, with every value it proposed: the figure steps, the density, the
+shared scale of the trend lines, the tertiary greys of D149, graphite for
+the two navy leftovers of variant A, one wash on Gym's ground and two on
+Mind's.
+
+- **Areas carry no colour of their own.** The `--domain-*` aliases go, and
+  with them the pastel families lilac, mint, peach, rose and sand (D14). A
+  selection takes the accent; a destructive or failing thing takes the
+  `weak` companions, a positive message the `strong` ones. Sky stays as the
+  information colour.
+- **A bar that shows a value is neutral** — `--data-ink` on `--data-track`
+  — with one exception the owner added: a weekly target that has been met
+  carries the status colour `strong`. In Gym that is the fill (5.4:1 on the
+  track). On light it is the status's ink (4.8:1), because the fill reaches
+  only 2.1:1 on the light track and a bar needs 3:1. "Ziel erreicht" stays
+  beside it as a word.
+- **The four status fills stay the same in both worlds**; D123 stands. The
+  review had called them too loud on graphite. Measured as the small marks
+  they are in Gym, they hold, and a muted set was shown and not chosen.
+
+Built in Stage 6b.
+
+## D161 — The body's neutral tones, its stage, the way to it, and the sheet
+
+**Decision (owner, STOP 0, 2026-11-11).**
+
+- White is *held*: the tone of a trained muscle with nothing to report. What
+  says nothing is dimmed — a muscle not trained in the range, and the inert
+  zone of head, hands and feet. A body without data is one calm grey
+  figure, and training makes it light.
+- The body takes at least 55 % of the screen's height and stands on the
+  ground without a card. A compact header, the range control and a strip of
+  three figures sit above it.
+- The Gym tile on Heute leads straight to the muscle screen. The Gym hub
+  stays the place for training, plans and Laufen.
+- The muscle sheet opens at two thirds of the height and can be drawn to
+  92 %. The body above it turns to the chosen group and then stands still.
+- The owner has no Mac, so frame rate and load time are measured by a
+  readout in the app itself.
+
+Built in blocks 7A, 7B and 7C; the target is `docs/wp3/vertrag.md` §8
+and §9.

diff --git a/HANDOVER.md b/HANDOVER.md
@@ -2,7 +2,7 @@
 
 Current state, status and next work. Durable rules are in
 [`CLAUDE.md`](CLAUDE.md); the reasoning behind individual choices is in
-[`docs/decisions.md`](docs/decisions.md) (D1–D159). This file does not repeat
+[`docs/decisions.md`](docs/decisions.md) (D1–D161). This file does not repeat
 either — it says where things stand.
 
 ## Repository state
@@ -549,9 +549,17 @@ not merged; the choice between the variants is the owner's at STOP 6a)
   anatomical body with inert hands, stage 1 of the model plus a BodyParts3D
   proof gate, the tidy-up of the public repository and the licence.
 - **Block 0 — the visual contract** (no production code):
-  `docs/wp3/vertrag.md`, a draft for STOP 0, with three mock-ups under
-  `docs/wp3/mockups/`. It replaces D89 and marks every rule as decided or
-  proposed.
+  `docs/wp3/vertrag.md`, **approved at STOP 0 on 2026-11-11** (D160, D161),
+  with three mock-ups under `docs/wp3/mockups/`. It replaces D89. Areas
+  carry no colour of their own; a value bar is neutral, and a met weekly
+  target is the one bar in the `strong` status; the status fills stay as
+  they are; white is held and the dimmed tone is untrained and the inert
+  zone; the body stage takes 55 % of the height; the Gym tile on Heute
+  leads to the body; the muscle sheet opens at two thirds.
+- **Still open from the owner:** his usual rep ranges and whether warm-up
+  sets, pyramids, drop sets or deloads occur in his history (needed by
+  Stage 5b); the iPhone model and iOS version (needed by 7B). He has no
+  Mac.
 - **Order from here** (D159): Stage 6b, the colour rules of the muscle
   status, Stage 5b, 7A (stage 1 of the body and the proof gate), 7B, 7C, 9;
   the tidy-up of D157 as a block of its own. Each block starts in a fresh
